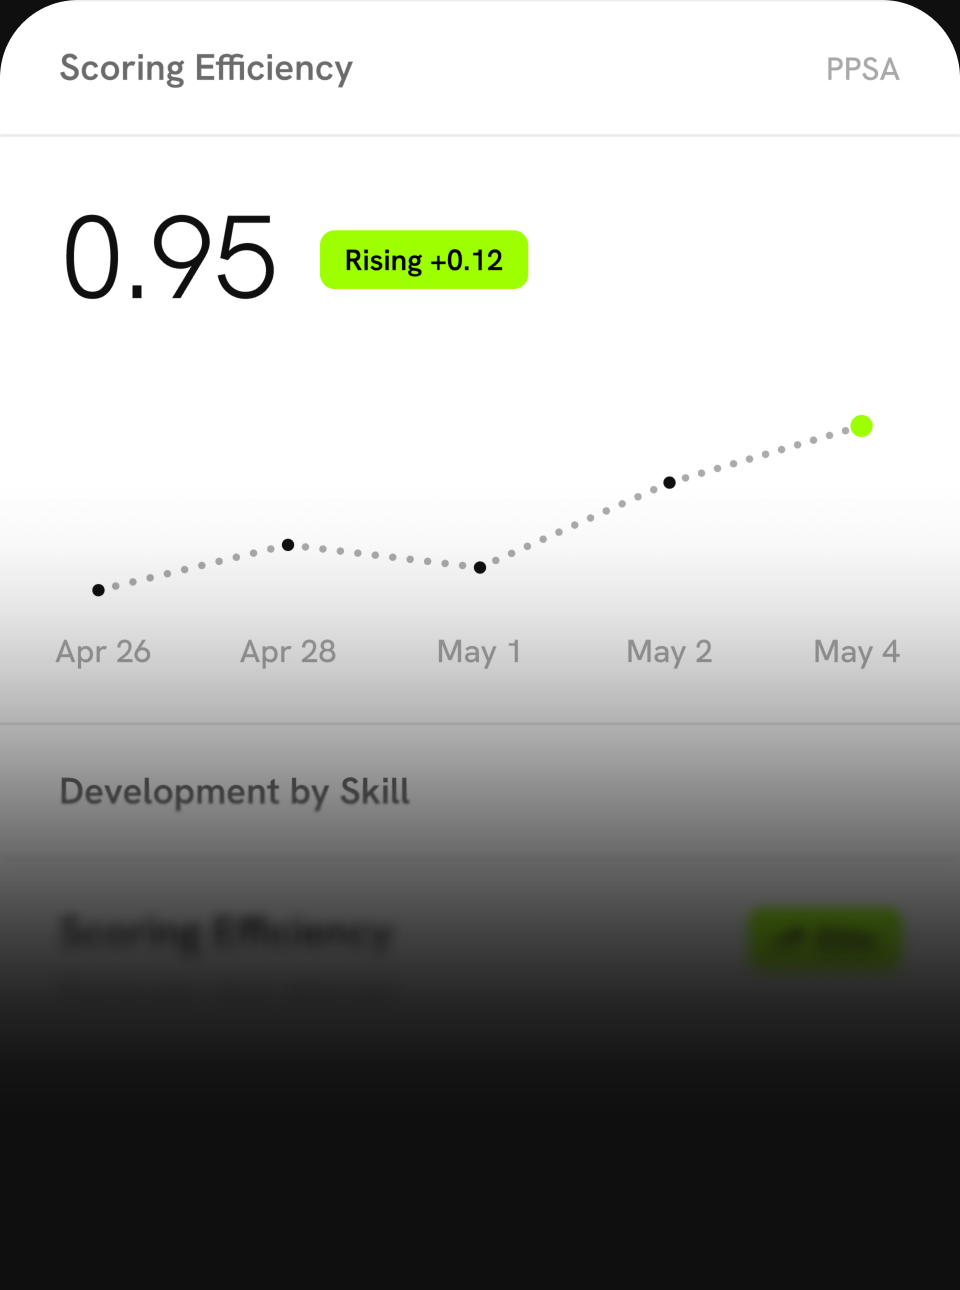
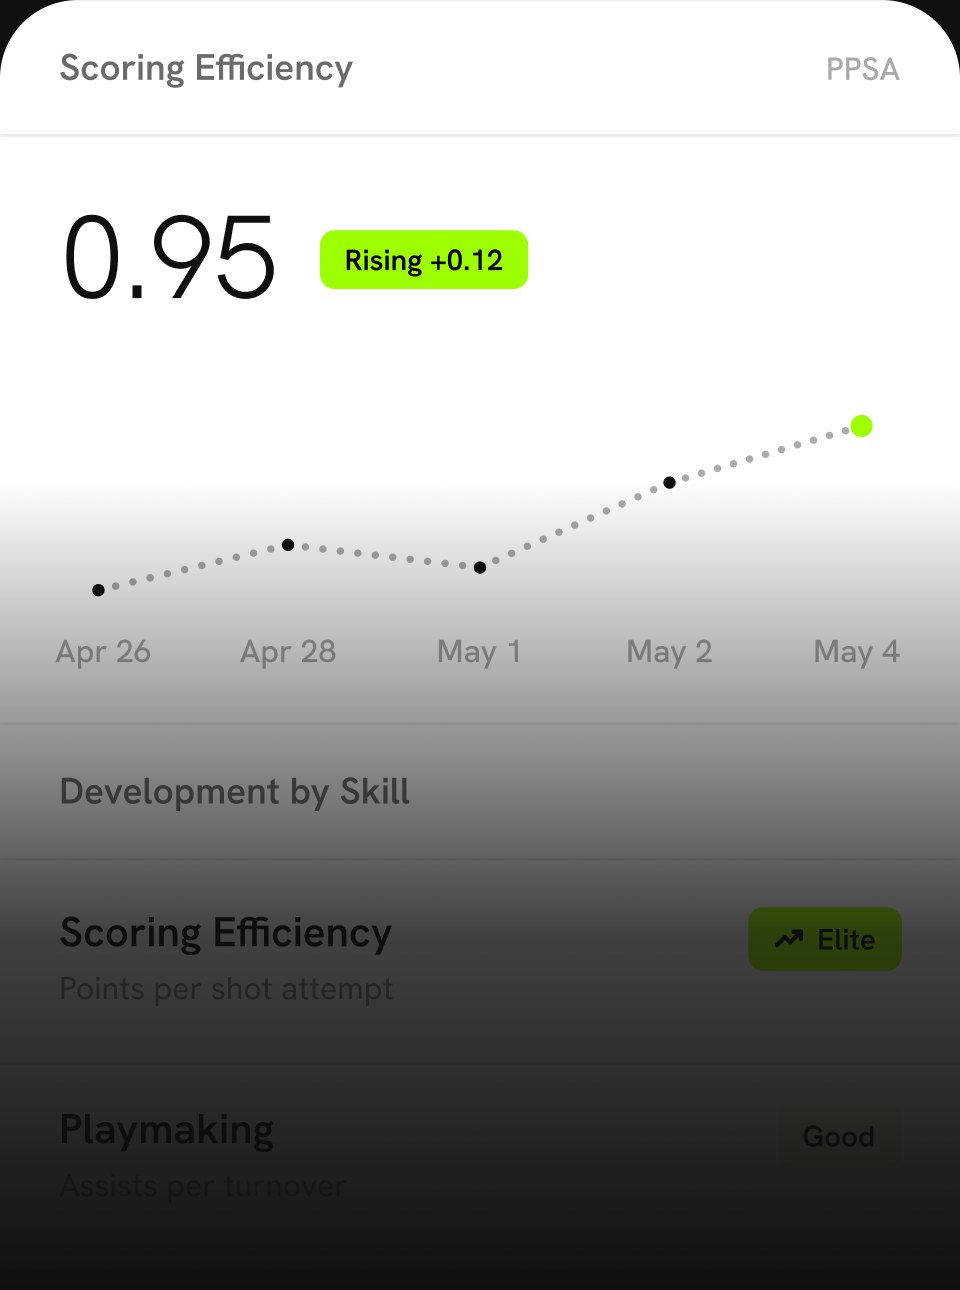
fix(entry): route onboarding from every entry point, and own the slide fade
The 2.0 onboarding was routed correctly and never actually reachable.
_initialize and errorBuilder BYPASS the route table and construct the entry
screen directly, so a flag added only to the route table did nothing on a
cold start. kUseDashboardV2 was already applied in those two places for the
signed-in branch; only the signed-out branch was missed, which is why it went
unnoticed. Both entry points now go through one _entryScreen helper, so
adding a screen flag is a single line rather than three places to remember.

The slide fade moves into code. The exported mockups are fully opaque -
alpha 255 everywhere - and fade by darkening toward #0F0F0F rather than by
transparency. A ramp painted into pixels cannot be smoothed from code:
anything added compounds with it and steepens the falloff, which is what made
the transition read as tight at both ends. Owning it here makes the curve a
number. Seven stops rather than two, because a linear alpha ramp still reads
as a band.

The Figma mockups still carry their own baked gradient, so the two currently
compound. Removing it there would let this ramp do the whole job.

Also from device review: images pushed down, the top mark enlarged to
CiSpace.s7, and real spacing above the carousel indicator, which had been
sitting flush against the body copy. A new test asserts every spacer on this
screen comes off the scale - it immediately caught a hand-picked 34 on the
logo mark, which is now s7.
[…]

diff --git a/lib/features/onboarding/onboarding_page.dart b/lib/features/onboarding/onboarding_page.dart
@@ -130,6 +130,9 @@ class _OnboardingPageState extends State<OnboardingPage> {
                         _Slide(slide: kOnboardingSlides[i]),
                   ),
                 ),
+                // The indicator sat flush against the body copy. Spacing comes
+                // off the scale, not from nudging until it looks right.
+                const SizedBox(height: CiSpace.s6),
                 _PageIndicator(
                   count: kOnboardingSlides.length,
                   index: _index,
@@ -170,7 +173,8 @@ class _TopBar extends StatelessWidget {
         children: [
           // Balances the Skip button so the mark sits truly centred.
           const SizedBox(width: 56),
-          const Expanded(child: Center(child: CiLogoMark(size: 26))),
+          // CiSpace.s7, not a hand-picked 34: sizes come off the scale too.
+          const Expanded(child: Center(child: CiLogoMark(size: CiSpace.s7))),
           GestureDetector(
             onTap: onSkip,
             behavior: HitTestBehavior.opaque,
@@ -201,17 +205,36 @@ class _Slide extends StatelessWidget {
     final c = CiColors.of(context);
     return Column(
       children: [
+        // Sits the mockup below the top bar rather than tight against it.
+        const SizedBox(height: CiSpace.s6),
         Expanded(
           child: Padding(
             padding: const EdgeInsets.symmetric(horizontal: CiSpace.s5),
             child: ShaderMask(
-              // The mockup fades out at its lower edge rather than ending on a
-              // hard line, so it reads as a glimpse into the app.
+              // THE FADE LIVES HERE, not in the exported image.
+              //
+              // The exports are fully opaque - alpha 255 everywhere - and fade
+              // by darkening toward #0F0F0F instead. A ramp painted into the
+              // pixels cannot be smoothed from code: anything added compounds
+              // with it and makes the falloff steeper, not gentler. Owning it
+              // here makes the curve a number we can tune.
+              //
+              // Many stops rather than two, because a linear alpha ramp still
+              // reads as a band. This approximates an ease: slow to start,
+              // quickest through the middle, slow to finish.
               shaderCallback: (rect) => const LinearGradient(
                 begin: Alignment.topCenter,
                 end: Alignment.bottomCenter,
-                colors: [Colors.white, Colors.white, Colors.transparent],
-                stops: [0, 0.72, 1],
+                colors: [
+                  Colors.white,
+                  Colors.white,
+                  Color(0xE6FFFFFF),
+                  Color(0xB3FFFFFF),
+                  Color(0x66FFFFFF),
+                  Color(0x26FFFFFF),
+                  Colors.transparent,
+                ],
+                stops: [0, 0.42, 0.56, 0.70, 0.82, 0.92, 1],
               ).createShader(rect),
               blendMode: BlendMode.dstIn,
               child: Image.asset(
@@ -225,7 +248,7 @@ class _Slide extends StatelessWidget {
             ),
           ),
         ),
-        const SizedBox(height: CiSpace.s5),
+        const SizedBox(height: CiSpace.s6),
         Padding(
           padding: const EdgeInsets.symmetric(horizontal: CiSpace.screen),
           child: Column(

diff --git a/lib/flutter_flow/nav/nav.dart b/lib/flutter_flow/nav/nav.dart
@@ -91,6 +91,22 @@ class AppStateNotifier extends ChangeNotifier {
   }
 }
 
+/// The screen a session starts on, flags applied.
+///
+/// This exists because the flags were applied in three places and one of them
+/// was missed: the signed-OUT branch here still built the v1 OnBoardWidget
+/// directly, so the 2.0 onboarding was routed correctly and never actually
+/// seen. `_initialize` and `errorBuilder` both bypass the route table, so a
+/// flag added only to the route table does nothing for a cold start.
+///
+/// Every entry point calls this. Adding a screen flag means changing one line.
+Widget _entryScreen(AppStateNotifier appStateNotifier) {
+  if (appStateNotifier.loggedIn) {
+    return kUseDashboardV2 ? const DashboardPage() : HomeWidget();
+  }
+  return kUseEntry2 ? const OnboardingPage() : OnBoardWidget();
+}
+
 GoRouter createRouter(AppStateNotifier appStateNotifier) {
   $lock_orientation_library_opafp4.initializeRoutes(
     homePageWidgetName: 'lock_orientation_library_opafp4.HomePage',
@@ -102,18 +118,12 @@ GoRouter createRouter(AppStateNotifier appStateNotifier) {
     debugLogDiagnostics: false,
     refreshListenable: appStateNotifier,
     navigatorKey: appNavigatorKey,
-    errorBuilder: (context, state) =>
-        appStateNotifier.loggedIn
-            ? (kUseDashboardV2 ? const DashboardPage() : HomeWidget())
-            : OnBoardWidget(),
+    errorBuilder: (context, state) => _entryScreen(appStateNotifier),
     routes: [
       FFRoute(
         name: '_initialize',
         path: '/',
-        builder: (context, _) =>
-            appStateNotifier.loggedIn
-                ? (kUseDashboardV2 ? const DashboardPage() : HomeWidget())
-                : OnBoardWidget(),
+        builder: (context, _) => _entryScreen(appStateNotifier),
       ),
       FFRoute(
         name: PlayersListWidget.routeName,
@@ -184,6 +194,11 @@ GoRouter createRouter(AppStateNotifier appStateNotifier) {
         path: OnBoardWidget.routePath,
         // 4.9: keeps the v1 route name and path so existing navigation calls
         // reach it unchanged and the flag is a one-line revert.
+        //
+        // NOT the only way onboarding is reached - _initialize and
+        // errorBuilder bypass the route table entirely, which is why they go
+        // through _entryScreen. Flagging only here left the v1 screen showing
+        // on every cold start.
         builder: (context, params) =>
             kUseEntry2 ? const OnboardingPage() : OnBoardWidget(),
       ),

diff --git a/test/onboarding_page_test.dart b/test/onboarding_page_test.dart
@@ -5,6 +5,7 @@ import 'package:courtside_i_q/courtside_iq/design/components/ci_button.dart';
 import 'package:courtside_i_q/courtside_iq/design/components/ci_logo_mark.dart';
 import 'package:courtside_i_q/courtside_iq/design/components/dot_burst.dart';
 import 'package:courtside_i_q/courtside_iq/design/tokens/ci_colors.dart';
+import 'package:courtside_i_q/courtside_iq/design/tokens/ci_metrics.dart';
 import 'package:courtside_i_q/features/onboarding/onboarding_page.dart';
 import 'package:courtside_i_q/features/onboarding/splash_view.dart';
 
@@ -112,6 +113,40 @@ void main() {
       final button = tester.widget<CiButton>(find.byType(CiButton));
       expect(button.style, CiButtonStyle.lime);
       expect(button.expand, isTrue);
+    });
+  });
+
+  group('slide composition', () {
+    testWidgets('owns the fade in code, with an eased multi-stop ramp',
+        (tester) async {
+      // The exports are fully opaque and fade by darkening toward the
+      // background. A ramp painted into pixels cannot be smoothed from code,
+      // so the fade belongs here where the curve is tunable. A two-stop linear
+      // alpha ramp still reads as a band, hence the extra stops.
+      await _pump(tester);
+      expect(find.byType(ShaderMask), findsWidgets);
+    });
+
+    testWidgets('spacing comes off the scale, not from nudging',
+        (tester) async {
+      await _pump(tester);
+      // Childless SizedBoxes only: those are spacers. A SizedBox WITH a child
+      // is a component sizing itself, not a gap in this layout.
+      final gaps = tester
+          .widgetList<SizedBox>(find.byType(SizedBox))
+          .where((b) => b.child == null)
+          .map((b) => b.height)
+          .whereType<double>()
+          .where((h) => h > 0)
+          .toSet();
+      // Not a const Set: doubles have no primitive equality.
+      final scale = <double>[
+        CiSpace.s1, CiSpace.s2, CiSpace.s3, CiSpace.s4,
+        CiSpace.s5, CiSpace.s6, CiSpace.s7, CiSpace.s8,
+      ];
+      for (final g in gaps) {
+        expect(scale.contains(g), isTrue, reason: '$g is not on the scale');
+      }
     });
   });
 

diff --git a/docs/courtside-iq-roadmap-v2.md b/docs/courtside-iq-roadmap-v2.md
@@ -1105,7 +1105,20 @@ entry points.
 ### 4.9 Splash + Onboarding
 
 - Splash and Onboarding x3 built and routed behind `kUseEntry2`.
-  `[x] built` · `[x] wired` · `[ ] device-verified`
+  `[x] built` · `[x] wired` · `[x] device-verified`
+- **Native splash checked on device: no white or coloured flash before the dot
+  burst.** The earlier concern about LaunchScreen.storyboard did not
+  materialise, so nothing to fix there.
+- **The onboarding VISUAL DESIGN is accepted as good-for-now, not final.** The
+  user intends a further design pass. Nothing outside `onboarding_page.dart`
+  depends on the slides' internals, so a redesign is a Figma pass plus swapping
+  copy, images and layout in one file.
+- **The mockup fade is owned in CODE, not the image.** The exports are fully
+  opaque (alpha 255 throughout) and fade by darkening toward `#0F0F0F`. A ramp
+  painted into pixels cannot be smoothed from code - anything added compounds
+  with it and steepens the falloff. **The Figma mockups still carry that baked
+  gradient; removing it would let the code-side ramp do the whole job and read
+  smoother.** Worth doing in the next design pass.
 - **Splash is painted, not an image.** It replaces
   `assets/images/App_Load_d.png`, a fixed bitmap drawn with `BoxFit.cover` that
   distorted on any aspect ratio it was not drawn for. It also replaces the
@@ -1129,8 +1142,7 @@ on device. **Check on the device run; fix before cutover.**
 
 ### Remaining in 4.9
 
-- 4.9b: the two undesigned states above.
-- Native splash background, pending the device check.
+- 4.9b: the two undesigned states above. **This is all that is left.**
 
 **Carry-over defects for 4.11 — verify these do not return in the rebuild:**
 
